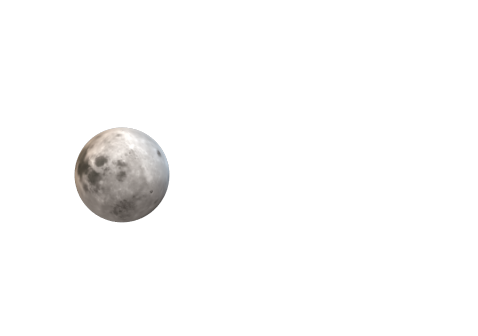
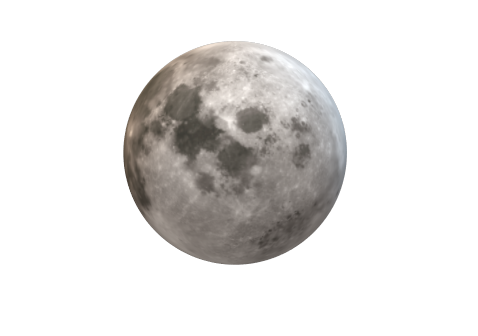
img elem

Changed region(s): [[0.1464, 0.119, 0.7322, 0.8036]]

diff --git a/index-p.html b/index-p.html
@@ -169,6 +169,8 @@
         /*------------------------MENU---2-----------------------------------------------------------*/
         
         #btn {
+            background-image: image("src-img\LUNE.png");
+            /*
             text-decoration: none;
             display: inline-block;
             padding: 8px 30px;
@@ -179,6 +181,7 @@
             letter-spacing: 2px;
             border-radius: 40px;
             transform: translatey(100px);
+             */
         }
         
         #btn:hover {
@@ -391,8 +394,8 @@
         <img src="src-img\Stars.png" id="sat">
         <img src="src-img\Stars.png" id="stars">
         <img src="src-img\cosmos.png" id="cosmos">
-        <a href="#" id="btn">Espace Trock</a>
-        <img src="src-img\FONT HTML3.png" id="mont" position:absolute>
+        <a href="#" id="btn" src="src-img\LUNE.png"></a>
+        <img src="src-img\mountain3.png" id="mont" position:absolute>
         <img src="src-img\foret.png" id="forest" position:absolute>
     </Section>
 
